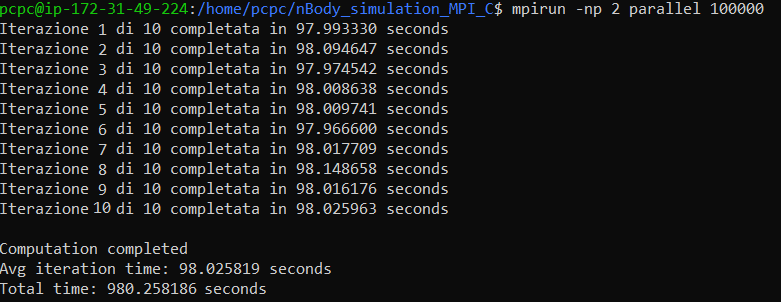
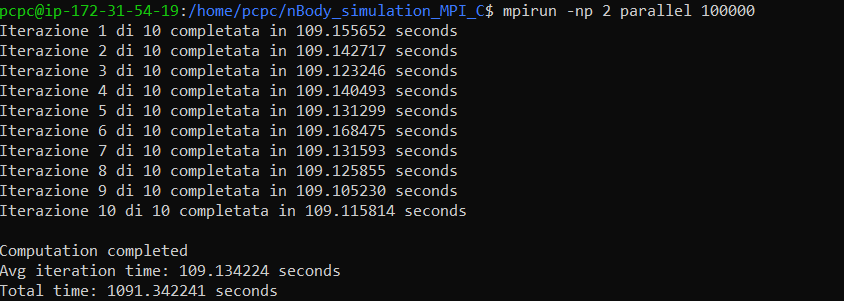
adding images & finishing performance on readme

Changed region(s): [[0.0, 0.0, 0.9834, 0.7176], [0.0, 0.8073, 0.4302, 0.9867]]

diff --git a/sequential_nBody.c b/sequential_nBody.c
@@ -81,7 +81,7 @@ int main(const int argc, const char **argv)
 
   endTotal = clock();
   totalTime = (double)(endTotal - startTotal) / CLOCKS_PER_SEC;
-  double avgTime = totalTime / (double)(nIters - 1);
+  double avgTime = totalTime / (double)(nIters);
   printf("\nAvg iteration time: %f seconds\n", avgTime);
   printf("Total time: %f seconds\n", totalTime);
 

diff --git a/sequential_nBody_benchmarking.c b/sequential_nBody_benchmarking.c
@@ -81,7 +81,7 @@ int main(const int argc, const char **argv)
 
   endTotal = clock();
   totalTime = (double)(endTotal - startTotal) / CLOCKS_PER_SEC;
-  double avgTime = totalTime / (double)(nIters - 1);
+  double avgTime = totalTime / (double)(nIters);
   printf("\nAvg iteration time: %f seconds\n", avgTime);
   printf("Total time: %f seconds\n", totalTime);
 

diff --git a/README.md b/README.md
@@ -1,4 +1,3 @@
-<link href="style.css" rel="stylesheet"></link>
 
 | N-Body Simulation | Nicola De Cristofaro | Data di consegna |
 | --- | --- | --- |
@@ -207,55 +206,102 @@ Possiamo ora procedere con la descrizione dei risultati dati dalla misurazione d
 
 ### Strong Scaling
 
-In questo tipo di misurazione la taglia del problema (il numero di particelle) resta fissata ma il numero di processori aumenta. 
+In questo tipo di misurazione la taglia del problema (il numero di particelle) resta fissata ma il numero di processori aumenta (da 1 a number-of-vcp x number-of-instances). 
 
-|   P	|   N	|   Computation Time	|
-|:-:	|:-:	|:-:	|
-|   1	|  100 000	|   	|
-|   2	|  100 000 	|   	|
-|   3	|  100 000	|   	|
-|   4	|  100 000 	|   	|
-|   5	|  100 000 	|   	|
-|   6	|  100 000 	|   	|
-|   7	|  100 000 	|   	|
-|   8	|  100 000 	|   	|
-|   9	|  100 000 	|   	|
-|   10	|  100 000 	|   	|
-|   11	|  100 000 	|   	|
-|   12	|  100 000 	|   	|
-|   13	|  100 000 	|   	|
-|   14	|  100 000 	|   	|
-|   15	|  100 000 	|   	|
-|   16	|  100 000 	|   	|
+**Quindi usando un'istanza EC2 di AWS di tipo *t2.large* che possiede 2 vCPU il cluster su cui verrà effettuato il benchmarking sarà formato da 8 istanze ognuna avente 2 vCPU quindi i processori possono aumentare da 1 a 16.**
 
+|   P	|   N	|   Avg Iteration Time (seconds)	|   Total Computation Time (seconds)	|
+|:-:	|:-:	|:-:	|:-:	|
+|   1	|  100 000	|   220.005443	|   2200.054430 ≅ 37 min	|
+|   2	|  100 000 	|   109.134224 	|   1091.342241 	|
+|   3	|  100 000	|   73.359361	|   733.593608 	|
+|   4	|  100 000 	|   54.819589	|   548.195891  |
+|   5	|  100 000 	|   43.785572	|   437.855721	|
+|   6	|  100 000 	|   36.821113	|   368.211132 	|
+|   7	|  100 000 	|   31.567646	|   315.676457 	|
+|   8	|  100 000 	|   27.412049	|   274.120492  |
+|   9	|  100 000 	|   24.375618	|   243.756177 	|
+|   10	|  100 000 	|   21.972933	|   219.729333 	|
+|   11	|  100 000 	|   20.238017	|   202.380169 	|
+|   12	|  100 000 	|   18.540094	|   185.400640 	|
+|   13	|  100 000 	|   17.049654	|   170.496536 	|
+|   14	|  100 000 	|   15.787466	|   157.874664 	|
+|   15	|  100 000 	|   14.750758	|   147.507577 	|
+|   16	|  100 000 	|   13.837183	|   138.371826 	|
 
+![](./benchmarking_screenshots/strong_scaling_screenshots/strong_scaling_graph.png)
+
+Dalle misurazioni effettuate per verificare la **strong scalability** abbiamo notato come su una stessa taglia di input, l'aggiunta di processori ha migliorato il tempo di esecuzione, ma ovviamente per ogni processore aggiunto il miglioramento non è stato costante poichè più processori partecipavano alla computazione, maggiore era l'overhead prodotto dalla comunicazione di questi. Nel nostro test fino a 16 processori il tempo di esecuzione è sempre diminuito ma abbiamo cominciato ad intravedere un punto di stop al miglioramento verso la fine, infatti con il passaggio da 15 a 16 processori il tempo di computazione è stato ridotto minimamente. Se fossimo andati avanti, aggiungendo altri processori saremmo arrivati ad un punto in cui il tempo di esecuzione non diminuiva più, ma cominciava ad aumentare poichè l'overhead prodotto era maggiore del miglioramento di prestazioni.
 
 ### Weak Scaling
 
 In questo caso la taglia del problema aumenta con l'aumentare del numero di processori, facendo in modo che il workload sia sempre equamente distribuito tra i processori.
 
-|   P	|   N	|   Computation Time	|
-|:-:	|:-:	|:-:	|
-|   1	|  10 000	|   	|
-|   2	|  20 000 	|   	|
-|   3	|  30 000	|   	|
-|   4	|  40 000 	|   	|
-|   5	|  50 000 	|   	|
-|   6	|  60 000 	|   	|
-|   7	|  70 000 	|   	|
-|   8	|  80 000 	|   	|
-|   9	|  90 000 	|   	|
-|   10	|  100 000 	|   	|
-|   11	|  110 000 	|   	|
-|   12	|  120 000 	|   	|
-|   13	|  130 000 	|   	|
-|   14	|  140 000 	|   	|
-|   15	|  150 000 	|   	|
-|   16	|  160 000 	|   	|
+|   P	|   N	|   Avg Iteration Time (seconds)	|   Total Computation Time (seconds)	|
+|:-:	|:-:	|:-:	|:-:	|
+|   1	|  10 000	|   1.961227	|   19.612270	|
+|   2	|  20 000 	|   3.921892	|   39.218918	|
+|   3	|  30 000	|   5.893506	|   58.935057	|
+|   4	|  40 000 	|   7.872926	|   78.729259	|
+|   5	|  50 000 	|   10.999243	|   109.992425	|
+|   6	|  60 000 	|   13.164654	|   131.645642	|
+|   7	|  70 000 	|   15.374346	|   153.743464	|
+|   8	|  80 000 	|   17.566746	|   175.667462	|
+|   9	|  90 000 	|   19.766140	|   197.661402	|
+|   10	|  100 000 	|   21.990926	|   219.909259	|
+|   11	|  110 000 	|   24.507350	|   245.073497	|
+|   12	|  120 000 	|   26.600296	|   266.022962	|
+|   13	|  130 000 	|   28.731199	|   287.311988	|
+|   14	|  140 000 	|   30.937833	|   309.378334	|
+|   15	|  150 000 	|   33.151154	|   331.511537	|
+|   16	|  160 000 	|   35.357112	|   353.571116	|
+
+![](./benchmarking_screenshots/weak_scaling_screenshots/weak_scaling_graphic.png)
+
+Il grafico ideale della performance di **weak scalability** sarebbe una linea retta poichè l'aumento della taglia dell'input è collegato all'aumento del numero di processori, quindi se il workload è sempre equamente distrubuito il tempo di computazione dovrebbe essere sempre lo stesso. Purtroppo questo non accade poichè, come abbiamo già detto, per ogni processore aggiunto viene prodotta una quantità maggiore di overhead, dovuto principalmente alla comunicazione tra i processori. Dal nostro esperimento abbiamo avuto comunque buoni risultati poichè con l'aumentare dei processori e della taglia dell'input il tempo di esecuzione è aumentato minimamente ad ogni step, rimanendo relativamente vicino all'ideale.
 
 ### Speedup
+Un'ultima metrica di misurazione delle performance che consideriamo è lo speedup che rappresenta il miglioramento delle prestazioni di un programma dovuto a un'esecuzione parallela rispetto a una sequenziale.
+
+Di solito il meglio in cui possiamo sperare è di dividere il lavoro tra i processori senza aggiungere ulteriore tempo di lavoro extra. In una situazione del genere se lanciamo il nostro programma con P processori allora il programma eseguirà P volte più velocemente del programma sequenziale. Se questo accade diciamo che il programma parallelo ha **speedup lineare**.
+
+In pratica, difficilmente riusciamo ad ottenere questo tipo di speedup poichè l'uso di più processori introduce nella maggior parte dei casi un tempo di "overhead" ovvero un tempo extra impiegato principalmente per operazioni di comunicazione tra i processori.
+
+Di seguito i valori relativi allo speedup calcolato nel seguente modo:
+
+$$ S(P,N) = \frac{T(1,N)}{T(P,N)} $$
+
+dove :
++ **P = numero di processori usati**
++ **N = taglia dell'input**
+
+|   P	|   N	|   Speedup	|
+|:-:	|:-:	|:-:	|
+|   1	|  100 000	|  1.0 |
+|   2	|  100 000 	|  2.0 |
+|   3	|  100 000	|  3.0	|
+|   4	|  100 000 	|  4.0 |
+|   5	|  100 000 	|  5.0 |
+|   6	|  100 000 	|  5.9 |
+|   7	|  100 000 	|  6.9 |
+|   8	|  100 000 	|  8.0 |
+|   9	|  100 000 	|  9.0 |
+|   10	|  100 000 	|  10.0 |
+|   11	|  100 000 	|  10.9 |
+|   12	|  100 000 	|  11.9 |
+|   13	|  100 000 	|  12.8 |
+|   14	|  100 000 	|  13.8 |
+|   15	|  100 000 	|  14.8 |
+|   16	|  100 000 	|  15.8 |
+
+![](./benchmarking_screenshots/speedup.png)
+
+Abbiamo notato come, sorprendentemente, lo **speedup** è sempre stato molto vicino all'ideale (speedup lineare), questo perchè lo speedup è calcolato in funzione di quante operazioni riusciamo ad eseguire in parallelo e non dal numero di processori coinvolti nel calcolo. Nel nostro caso abbiamo avuto ottimi risultati poichè, tranne per alcune istruzioni in più eseguite dal processore MASTER, tutte le istruzione del programma sono state eseguite in parallelo.
 
 
+# Conclusioni
+
+Dalle considerazione effettuate sulla strong scalability, weak scalability e sullo speedup possiamo concludere che abbiamo raggiunto buoni risultati e notato evidenti miglioramenti con l'aggiunta di altri processori. Infatti essendo un problema di complessità quadratica il tempo di esecuzione sequenziale era davvero elevato (su taglia di input 100 000 il tempo totale di esecuzione era circa 37 minuti). Impiegando 16 processori in parallelo il tempo totale di computazione è diminuito fino a circa 2 minuti, notando così la potenza di una computazione parallela.
 
 
 
